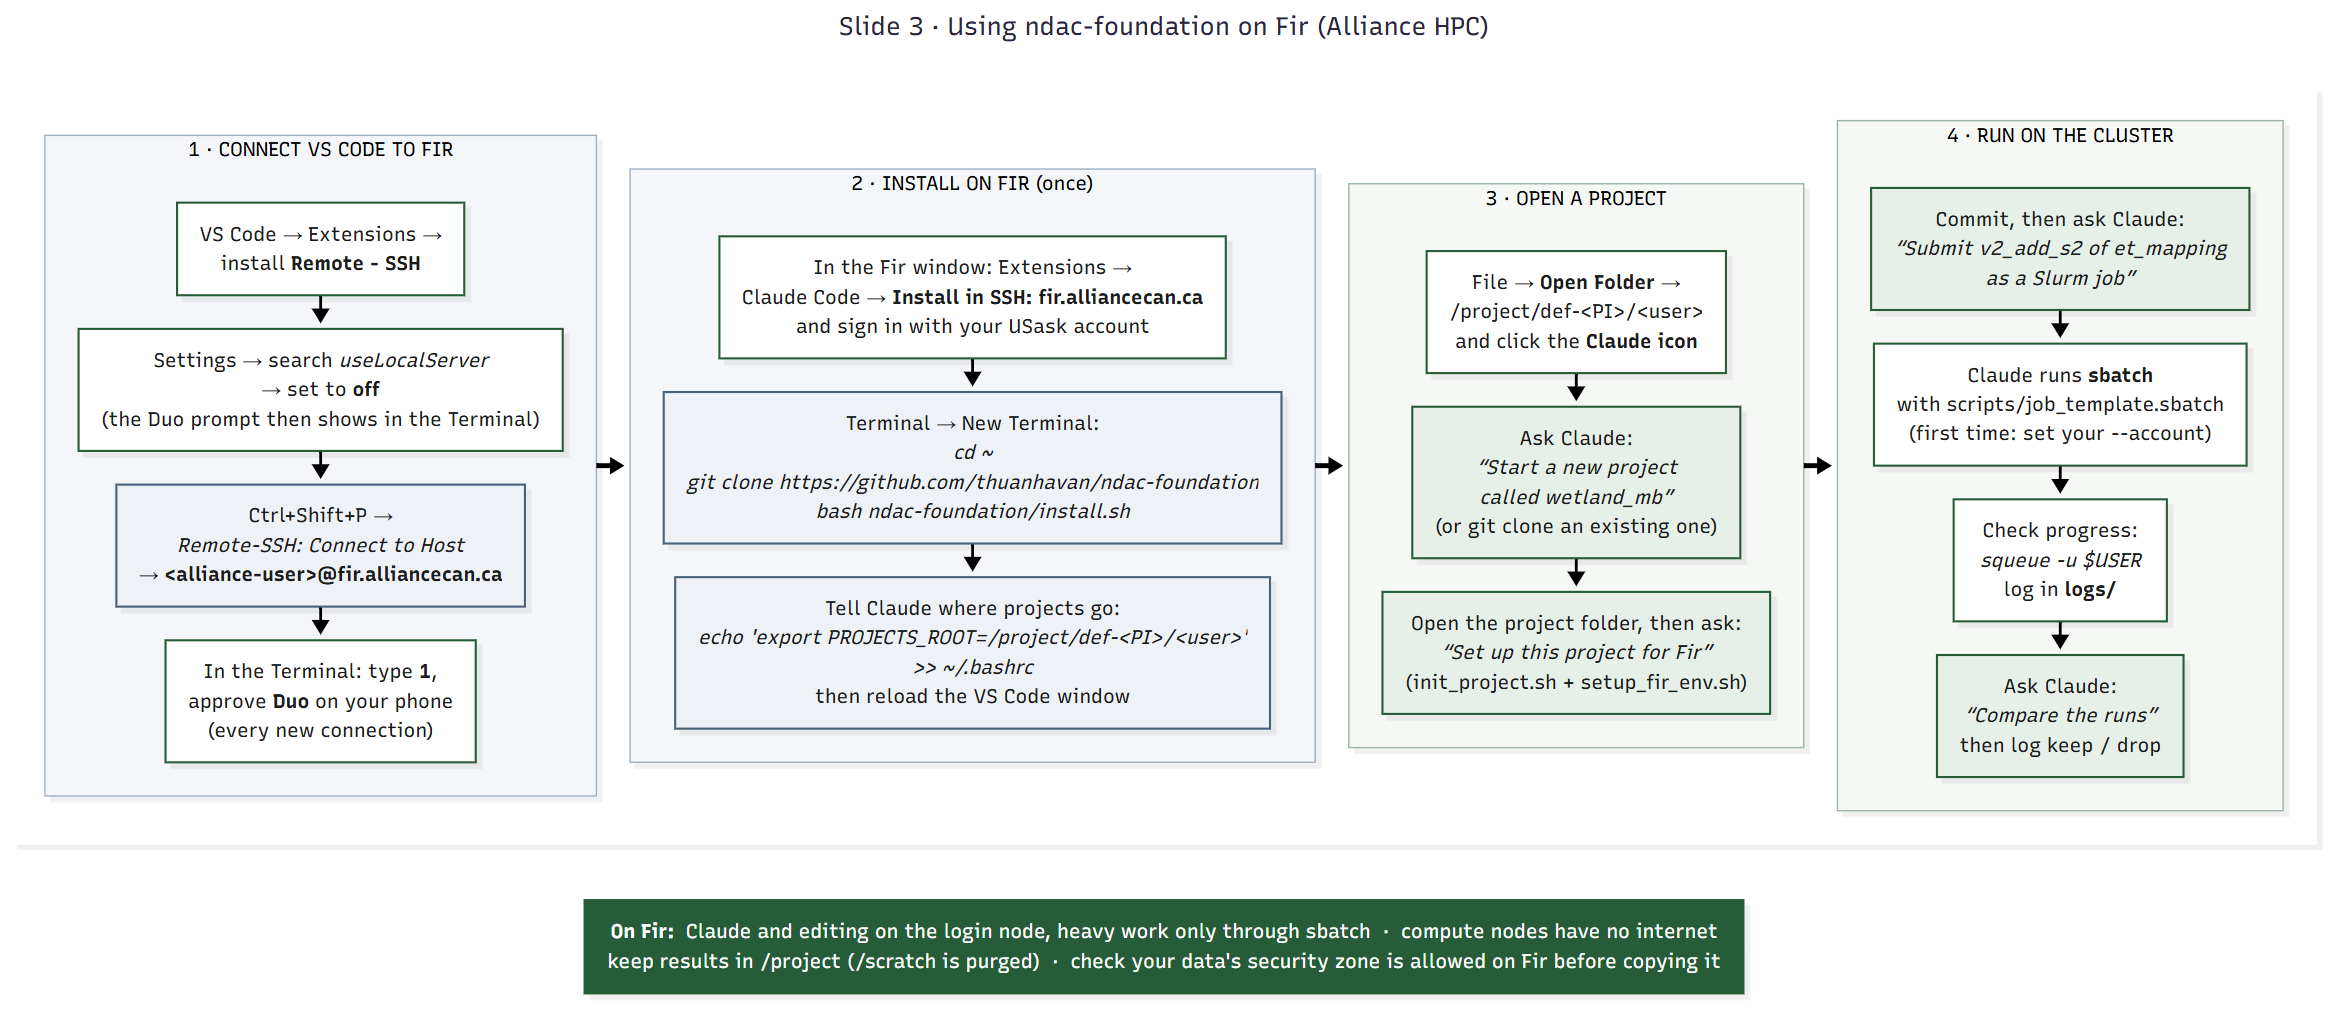
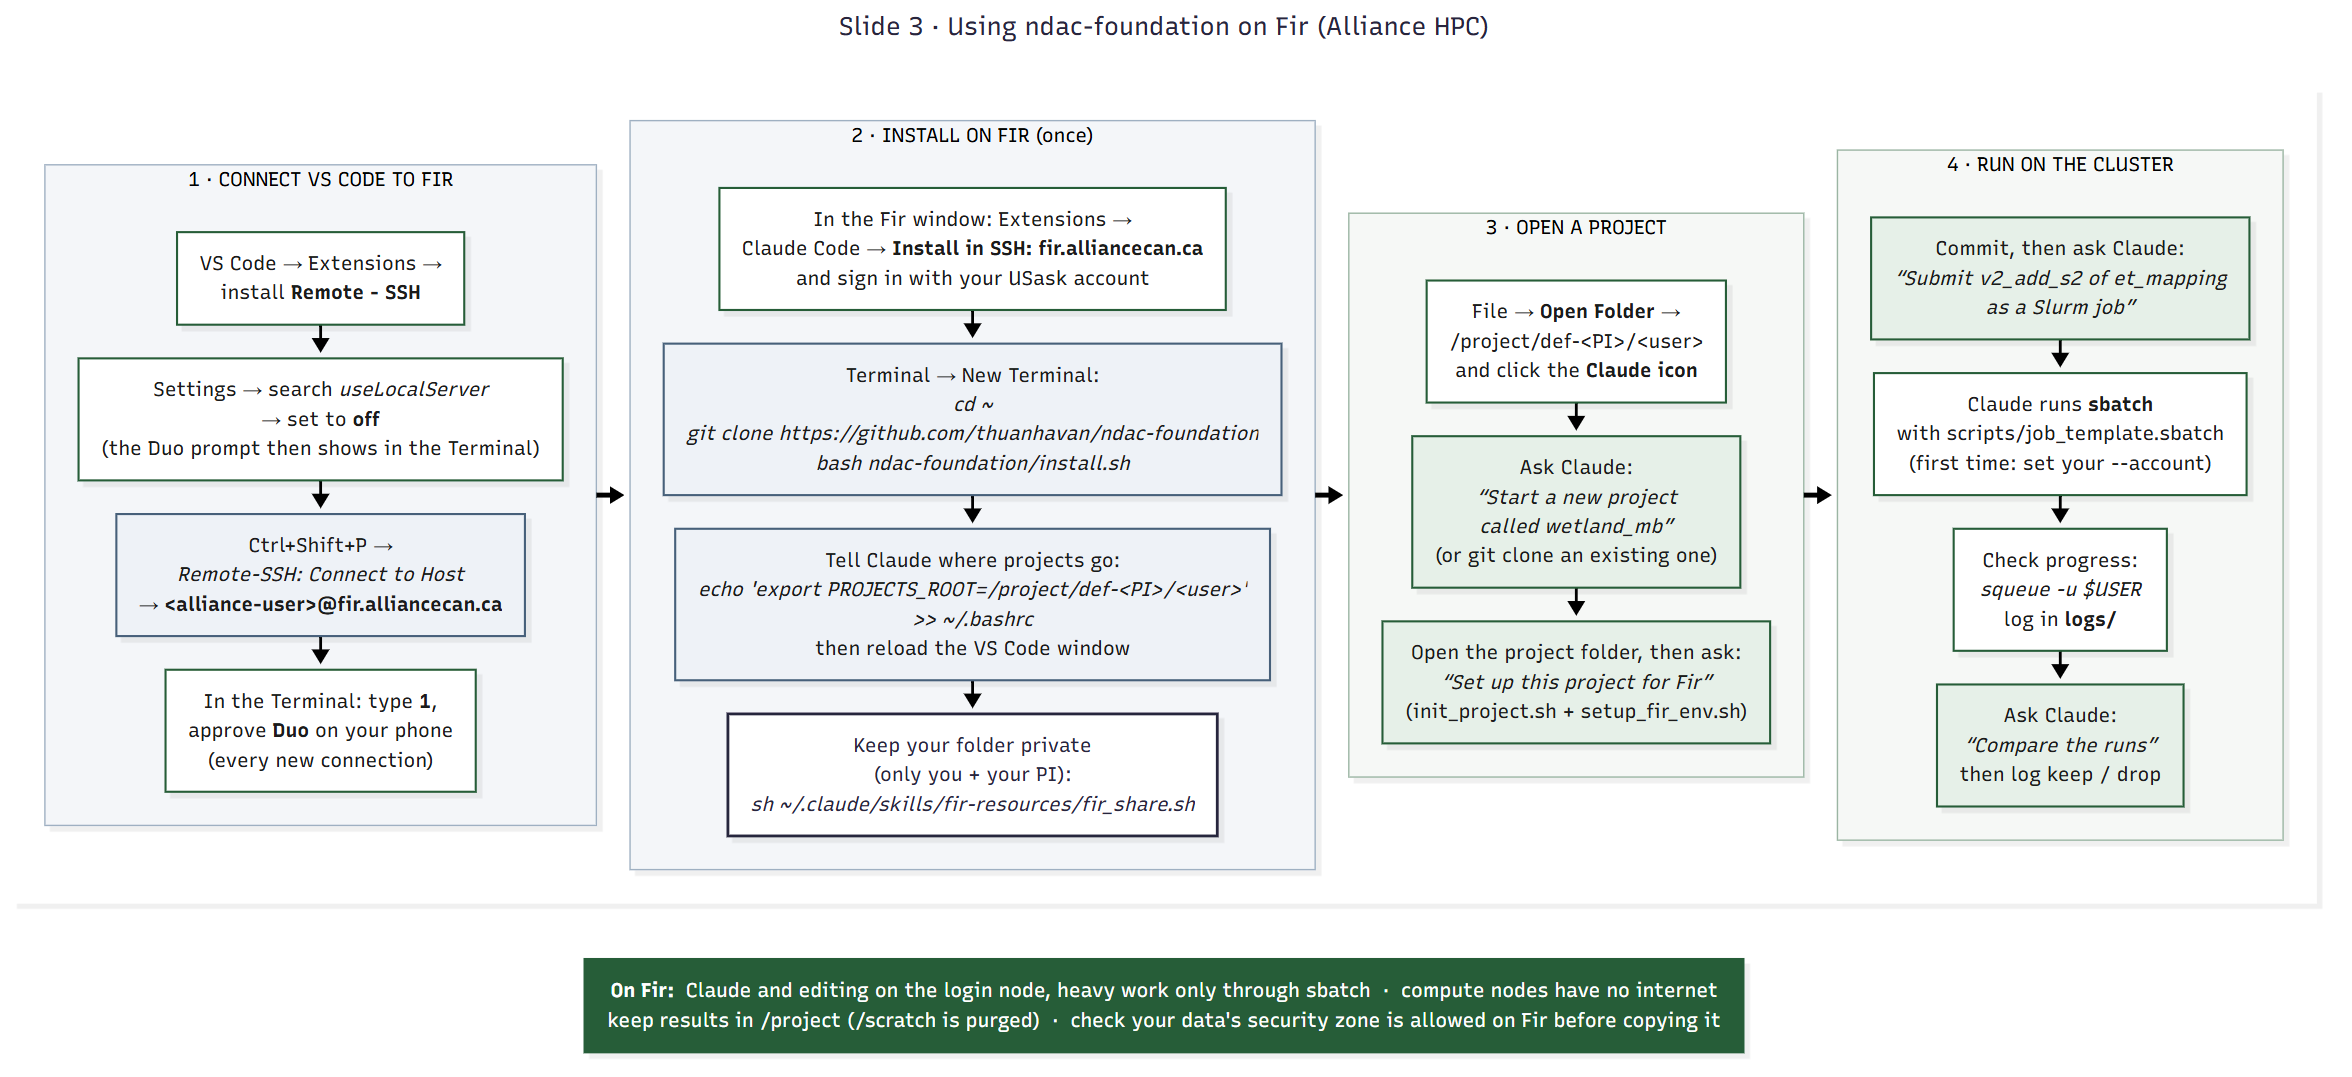
v0.4.1: fir_share.sh keeps /project folders private to member + PI
On Alliance /project everything is group-readable by default. fir_share.sh
removes group/other access, grants the PI (read from def-<pi> in the path)
and any --with users read/write via ACLs, sets default ACLs so new files
inherit, and adds traverse on owned parent folders. --check reports items
the PI can't reach and items still group/other-readable.

Also: fir-resources skill section, README + slide 3 step, *.sh kept LF,
install.sh marks the script executable.

diff --git a/skills/fir-resources/SKILL.md b/skills/fir-resources/SKILL.md
@@ -38,6 +38,26 @@ Many small files (thousands) are slow on shared storage: bundle them (tar) befor
 Before copying data to Fir at all: the project's security zone must be allowed there; ask
 the data steward for C_Limited / D_Restric.
 
+## Who can read your folder
+
+By default anything under `/project/<allocation>/` is readable by **every member** of the
+allocation group. Keep each member's `Projects` folder private to them + the PI:
+
+```bash
+sh ~/.claude/skills/fir-resources/fir_share.sh            # $PROJECTS_ROOT; PI read from def-<pi> in the path
+sh ~/.claude/skills/fir-resources/fir_share.sh --check    # report: who lacks access, what is still group-readable
+sh ~/.claude/skills/fir-resources/fir_share.sh --with <user>   # also a co-supervisor / collaborator
+```
+
+It removes group/other access, gives the PI (and `--with` users) read/write by ACL, sets
+default ACLs so new files inherit, and lets them pass through parent folders you own.
+- Suggest it when a user first sets up on Fir, and **show the command and get a yes**
+  before running it: it changes who can see the data. Don't use it to open access wider
+  than the data's agreement allows; `--with` users must be covered by the DSA/REB.
+- After `chmod g-...`/`chmod 700`, or copying in with `cp -p`, `rsync -a` or `tar`, access
+  can drop or reopen: run `--check`, and re-run the script if it reports items.
+- If the PI can't be read from the path (`/project/<gid>/...`), pass `--pi <user>`.
+
 ## Procedure for running a version
 
 1. **Commit** the code (run folders record the commit; `-dirty` runs can't be reproduced).

diff --git a/README.md b/README.md
@@ -22,6 +22,8 @@ Restart VS Code, open the Claude panel, type `/` and check that `init-data-proje
 `export-check` are listed.
 
 **Linux / HPC:** `git clone ... ~/ndac-foundation && sh ~/ndac-foundation/install.sh`
+On Fir, then run `sh ~/.claude/skills/fir-resources/fir_share.sh` so your `/project` folder
+is readable only by you and your PI, not the whole allocation group.
 
 **Update:** `git -C C:\<NSID>\Projects\ndac-foundation pull`, then run `install.ps1` again.
 
@@ -56,7 +58,7 @@ the repo is already laid out as a plugin. Skills then appear as `ndac-foundation
 | `export-check` | Pre-export disclosure control; PASS / BLOCKED per artifact |
 | `adopt-project` | Bring an existing project under git and up to the baseline |
 | `ndac-data-rules` | Prairie data-governance and CRS rules, applied in any project |
-| `fir-resources` | On Fir: right node (login / interactive / batch) and right storage (/project, /scratch, node-local disk, nearline) |
+| `fir-resources` | On Fir: right node (login / interactive / batch) and right storage (/project, /scratch, node-local disk, nearline); `fir_share.sh` keeps your `/project` folder private to you + your PI |
 
 **Agents**: `pii-scanner` (identifiers, PPID/LLD, small cells, credentials),
 `metadata-tagger` (`.meta.yaml` sidecars), `repo-auditor` (baseline scorecard),
